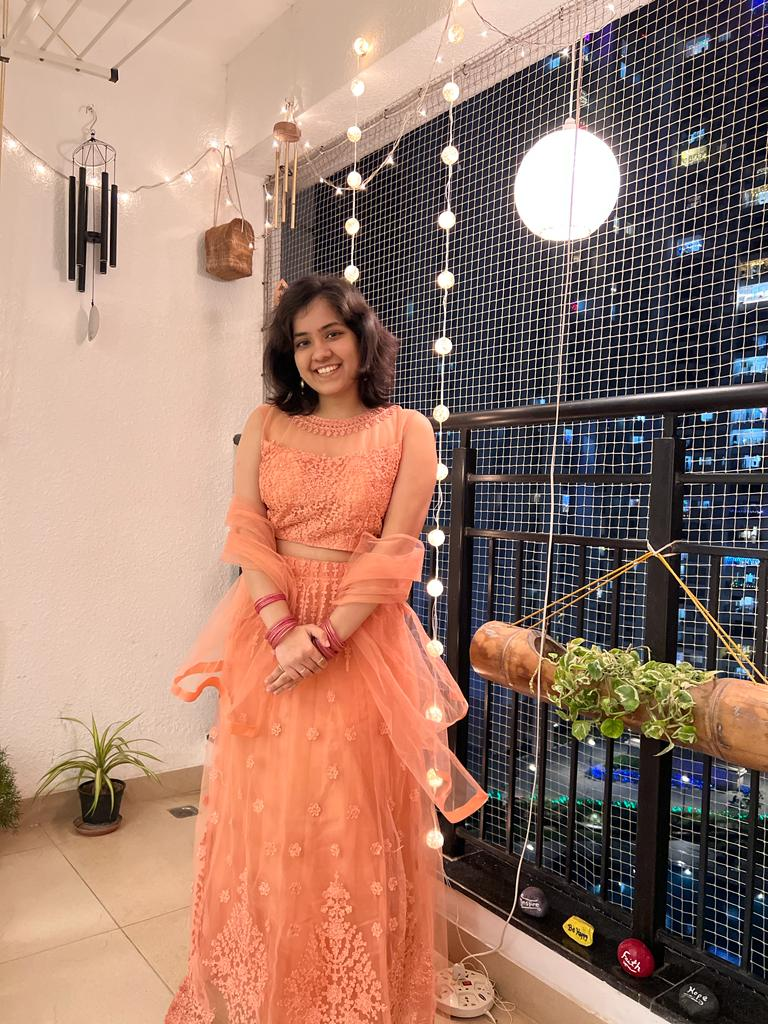
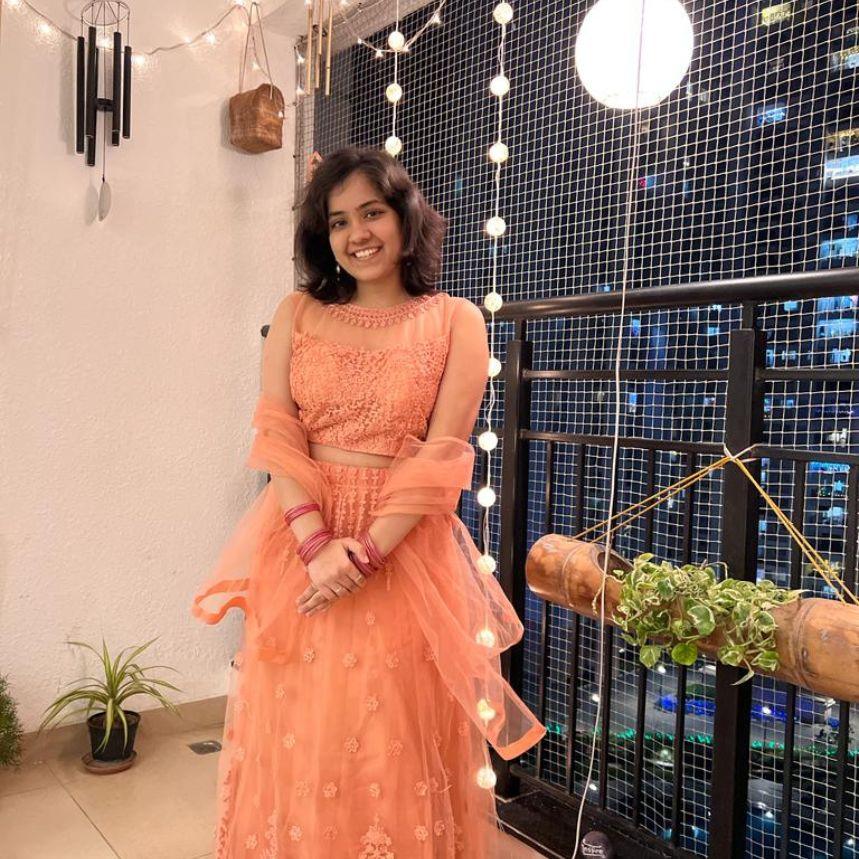
image changes

diff --git a/index.html b/index.html
@@ -603,7 +603,7 @@
           <div class="col-lg-3 col-md-6 d-flex align-items-stretch">
             <div class="member" data-aos="fade-up" data-aos-delay="200">
               <div class="member-img">
-                <img src="assets/img/team/team-2.jpg" class="img-fluid" alt="">
+                <img src="assets/img/team/team-2.jpg" height= 450px width= 275px class="img-fluid" alt="">
                 <div class="social">
                   <a href=""><i class="bi bi-twitter"></i></a>
                   <a href=""><i class="bi bi-facebook"></i></a>
